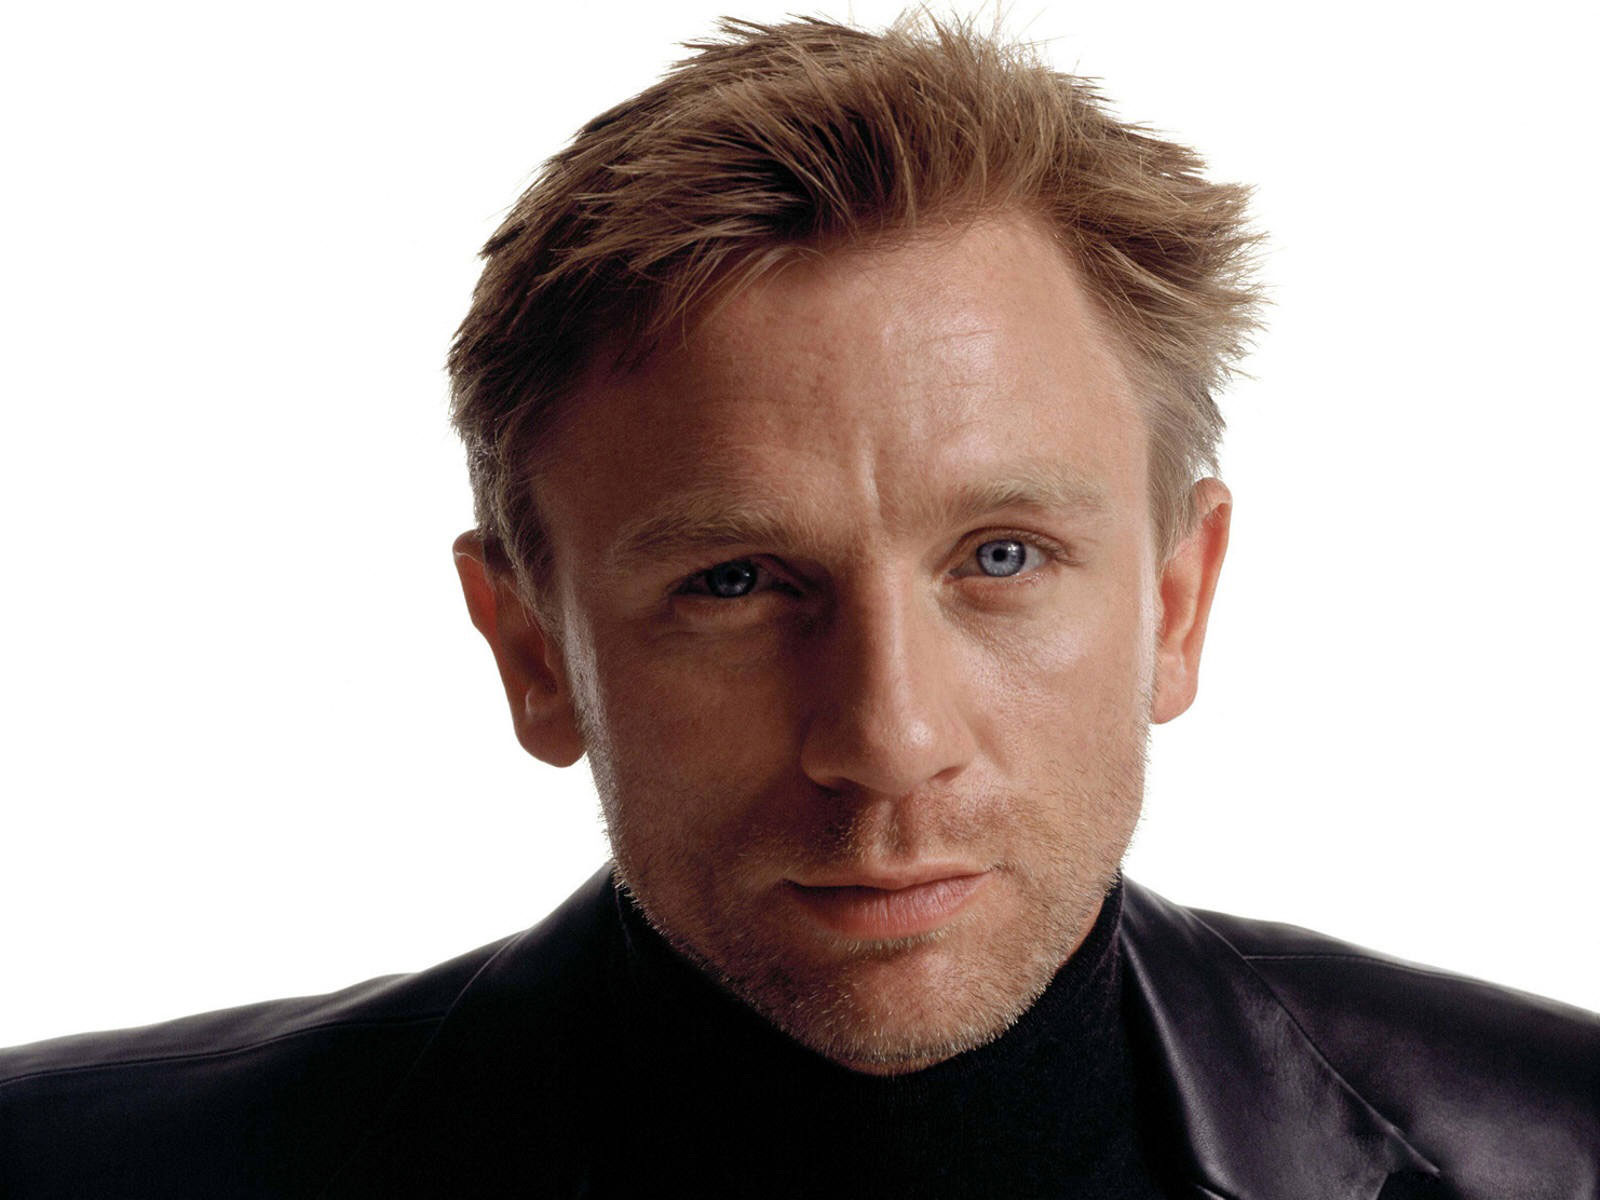
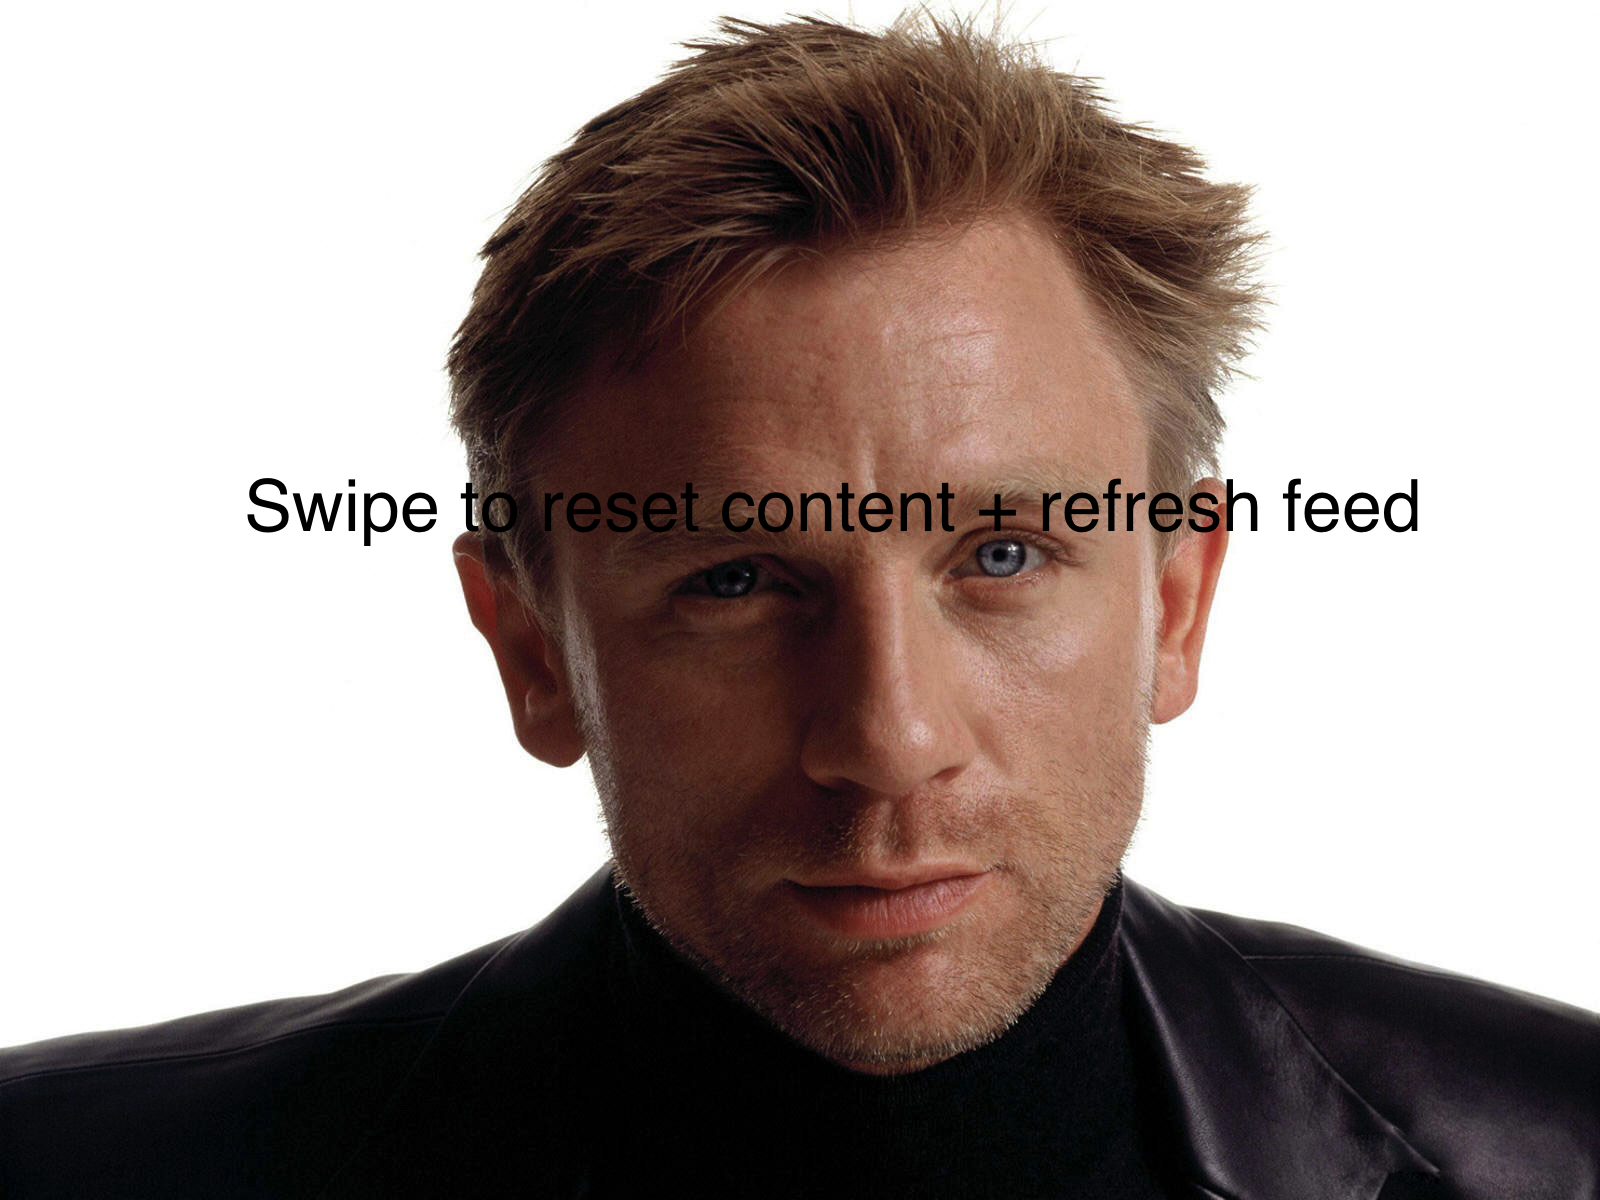
refined viewed resetting/refreshing system

Changed region(s): [[0.1562, 0.4008, 0.9062, 0.4625]]

diff --git a/ParseStarterProject/HomeFeedController.swift b/ParseStarterProject/HomeFeedController.swift
@@ -41,6 +41,9 @@ class HomeFeedController: UIViewController, UITableViewDelegate, UITableViewData
     
     //if my current image is at the end image
     var atEnd: Bool = false;
+    
+    //tells me to reset my content one swipe after atEnd
+    var resetNeed: Bool = false;
    
     //an array of comments which will be populated when loading app
     var commentList: Array<PostComment> = [];
@@ -68,12 +71,12 @@ class HomeFeedController: UIViewController, UITableViewDelegate, UITableViewData
     }
     override func viewDidAppear(animated: Bool) {
         //needs work - reload images back into feed
-        NSLog("initial view has appeared");
+        //resetNeed = true;
+        frontImageView!.image = loadingImg;
+        resetNeed = true;
         resetToStart();
     }
     func resetToStart() {
-        NSLog("resetting to start");
-        frontImageView!.image = loadingImg;
         backImageView!.image = loadingImg;
         
         viewCounter = 0;    //we are at start of image sequence
@@ -85,20 +88,20 @@ class HomeFeedController: UIViewController, UITableViewDelegate, UITableViewData
     }
     func setPostArraySize(size: Int) {
         //called by server to set size of array of images we are fetching, before retrieving
-        NSLog("Fetched size of my next set: \(size)")
-        NSLog("For set \(loadedSetNum)")
         if (size == 0) {
             //we fetched an array of size 0...
             if (loadedSetNum == 1) {
                 //this is our first set, and we have no images to display
-                NSLog("VC should be 0: \(viewCounter)")
                 frontImageView!.image = endingImg;
-                backImageView!.image = endingImg;
+                backImageView!.image = loadingImg;
                 atEnd = true;
             }
             else {
                 //do nothing, just make sure to set backImg to endingImg when firstSet ends
             }
+        }
+        else {
+            resetNeed = false;
         }
         loadedCount = 0;
         if (loadedSetNum == 1) {
@@ -112,24 +115,21 @@ class HomeFeedController: UIViewController, UITableViewDelegate, UITableViewData
     }
     
     func getReturnList(imgStruct: ImagePostStructure, index: Int){
-        NSLog("Fetching img post at \(index) for list# \(loadedSetNum)")
+        //NSLog("Fetching img post at \(index) for list# \(loadedSetNum)")
         if (loadedSetNum == 1) {
             firstSet[index] = imgStruct;
             loadedSet[index] = true;
             if (index == viewCounter) {
                 //my first image needs to be loaded ASAP, it is first image that needs to be shown
-                NSLog("Setting front img")
                 frontImageView!.image = firstSet[viewCounter]!.image;   //this changes it from the loading scene
             }
             else if (index == viewCounter + 1) {
                 //my back image needs to be loaded
-                NSLog("Setting back image")
                 backImageView!.image = firstSet[viewCounter + 1]!.image;
             }
             loadedCount++;
             if (loadedCount == firstSet.count) {
                 //finished loading all of first set, and there is more to load...?
-                NSLog("First set is done loading, let's now load the 2nd set");
                 loadedSetNum = 2;
                 ServerInteractor.getPost(getReturnList, sender: self);
             }
@@ -140,7 +140,6 @@ class HomeFeedController: UIViewController, UITableViewDelegate, UITableViewData
             //no need to check if I need this image right now; first set is the one buffering
             if (index == 0 && viewCounter == firstSet.count - 1) {
                 //my VC is at the last img in firstSet; and backImg is not loaded
-                NSLog("Setting first image of my backimg")
                 backImageView!.image = secondSet[0]!.image;
             }
             loadedCount++;
@@ -199,7 +198,7 @@ class HomeFeedController: UIViewController, UITableViewDelegate, UITableViewData
                         //backView.image = METHOD FOR INSERTING NEW IMAGE HERE (BACKEND)
                         //removeme commented below line
                         //backView.image = UIImage(named: "test image 3.jpg");
-                        NSLog("Swipe \(self.viewCounter)")
+                        //NSLog("Swipe \(self.viewCounter)")
                         
                         
                         if (!(self.atEnd)) {
@@ -226,21 +225,20 @@ class HomeFeedController: UIViewController, UITableViewDelegate, UITableViewData
                                 if (self.viewCounter == self.firstSet.count - 1) {
                                     //need to load 2nd set images, but first set isn't done loading!!!
                                     //this is impossible, since we just showed all of first set though!
-                                    NSLog("OP is a phony");
+                                    
+                                    //actually, this might happen for an image queue size of 1
+                                    NSLog("Potential Error: loadedSetNum did not update although list is completely loaded");
                                 }
                                 else if (self.loadedSet[self.viewCounter+1]) {
-                                    NSLog("image is loaded, setting")
                                     self.backImageView!.image = (self.firstSet[self.viewCounter+1])!.image;
                                 }
                                 else {
-                                    NSLog("image is not loaded!")
                                     self.backImageView!.image = self.loadingImg;
                                 }
                             }
                             else {
                                 if (self.viewCounter == self.firstSet.count - 1) {
                                     if (self.secondSet.count == 0) {
-                                        NSLog("Next queued set is empty, ending")
                                         //my 2nd set has nothing in it...
                                         self.firstSet = self.secondSet;
                                         self.backImageView!.image = self.endingImg;
@@ -248,7 +246,6 @@ class HomeFeedController: UIViewController, UITableViewDelegate, UITableViewData
                                     }
                                     else if (self.loadedCount == self.secondSet.count) {
                                         //my 2nd set is all loaded and I can copy the 2nd set => 1st set and start loading right away
-                                        NSLog("Moving 2nd set to 1st, starting queue for new 2nd set")
                                         self.firstSet = self.secondSet;
                                         
                                         //self.loadedSetNum = 2; unnecessary: still loading into set #2
@@ -258,104 +255,42 @@ class HomeFeedController: UIViewController, UITableViewDelegate, UITableViewData
                                         
                                         if (self.firstSet.count > 0) {
                                             //no need to check loading, they should all be loaded
-                                            NSLog("Set backimg from next set")
                                             self.backImageView!.image = (self.firstSet[0])!.image;
                                         }
                                         else {
                                             //this should never run, since all images are loaded!
-                                            NSLog("All images are loaded, yet we are trying to load an image. WTF?");
+                                            NSLog("Error: All images are loaded, yet we are trying to load an image.");
                                             self.backImageView!.image = self.loadingImg;
                                         }
                                     }
                                     else {
-                                        NSLog("Current set is still loading, now loading first set instead of 2nd")
                                         //my 2nd set is still loading, I need to copy the 2nd set over to the 1st and keep on loading
                                         self.firstSet = self.secondSet;
                                         self.loadedSetNum = 1;
                                         if (self.firstSet.count > 0 && self.loadedSet[0]) {
-                                            NSLog("Fortunately backimg was ready for load at index 0")
                                             self.backImageView!.image = (self.firstSet[0])!.image;
                                         }
                                         else {
-                                            NSLog("Waiting for backimg to load at 0")
                                             self.backImageView!.image = self.loadingImg;
                                         }
                                     }
                                 }
                                 else {
-                                    NSLog("All first set elements loaded, getting backImg");
                                     self.backImageView!.image = (self.firstSet[self.viewCounter+1])!.image;
                                 }
                             }
                         }
                         else {
-                            NSLog("Resetting content, since queue is stopped");
-                            self.resetToStart();
-                        }
-                        
-                        
-                        
-                        /*
-                        if (self.viewCounter == self.firstSet.count - 1) {
-                            //need to load image from next set, if there is one
-                            if (self.loadedSetNum == 1) {
-                                
-                            }
-                            
-                        }
-                        else {
-                            if (self.loadedSetNum == 1) {
-                                if (self.loadedSet[self.viewCounter]) {
-                                    self.backImageView!.image = (self.firstSet[self.viewCounter+1])!.image;
-                                }
-                                else {
-                                    //notify I am waiting on this image to load
-                                    self.needNext = true;
-                                    self.backImageView!.image = self.loadingImg;
-                                }
+                            //tell server to reset
+                            if (!self.resetNeed) {
+                                self.resetNeed = true;
                             }
                             else {
-                                //fetch back image to show next
-                                self.backImageView!.image = (self.firstSet[self.viewCounter+1])!.image
+                                self.resetNeed = false;
+                                ServerInteractor.resetViewedPosts();
                             }
+                            self.resetToStart();
                         }
-                        
-                        if (self.viewCounter == self.firstSet.count - 1) {
-                            self.backImageView!.image = UIImage(named: "daniel-craig.jpg");
-                            return;
-                        }
-                        
-                        
-                        
-                        
-                        if (self.viewCounter == (POST_LOAD_COUNT - 1)) {
-                            self.backImageView!.image = (self.secondSet[0])!.image
-                        } else if (self.viewCounter == POST_LOAD_COUNT) {
-                            self.viewCounter = 0;
-                            self.backImageView!.image = (self.secondSet[self.viewCounter+1])!.image
-                            
-                            self.firstSet = self.secondSet;
-                            
-                            self.numSets += 1
-                            ServerInteractor.getPost(getReturnList);
-                        } else {
-                            self.backImageView!.image = (self.firstSet[self.viewCounter+1])!.image
-                        }*/
-                        
-                        
-                        /*
-                        if (vote) {
-                        //these are causing the object not found for update error
-                        self.firstSet[self.viewCounter]!.like();
-                        self.voteCounter.textColor = UIColor.greenColor();
-                        }
-                        else {
-                        self.firstSet[self.viewCounter]!.pass();
-                        self.voteCounter.textColor = UIColor.redColor();
-                        }
-                        self.voteCounter!.text = "Last Post: +\(self.firstSet[self.viewCounter]!.getLikes())"
-                        */
-                        
                     }
                     self.swiperNoSwipe = false;
                 });

diff --git a/ParseStarterProject/ServerInteractor.swift b/ParseStarterProject/ServerInteractor.swift
@@ -192,8 +192,6 @@ import UIKit
             //must be an everyone-only post to show in popular feed
             query.whereKey("exclusive", equalTo: PostExclusivity.EVERYONE.toRaw());
         }
-        var vi = (PFUser.currentUser()["viewHistory"] as NSArray).count;
-        NSLog("Size of my view history: \(vi)")
         query.whereKey("objectId", notContainedIn: (PFUser.currentUser()["viewHistory"] as NSArray));
         //query addAscending/DescendingOrder for extra ordering:
         query.findObjectsInBackgroundWithBlock {
@@ -213,6 +211,10 @@ import UIKit
             }
         }
         //return returnList;
+    }
+    class func resetViewedPosts() {
+        PFUser.currentUser()["viewHistory"] = NSArray();
+        PFUser.currentUser().saveEventually();
     }
     class func getMySubmissions(skip: Int)->Array<ImagePostStructure?> {
         return getMySubmissions(skip, loadCount: MYPOST_LOAD_COUNT);
